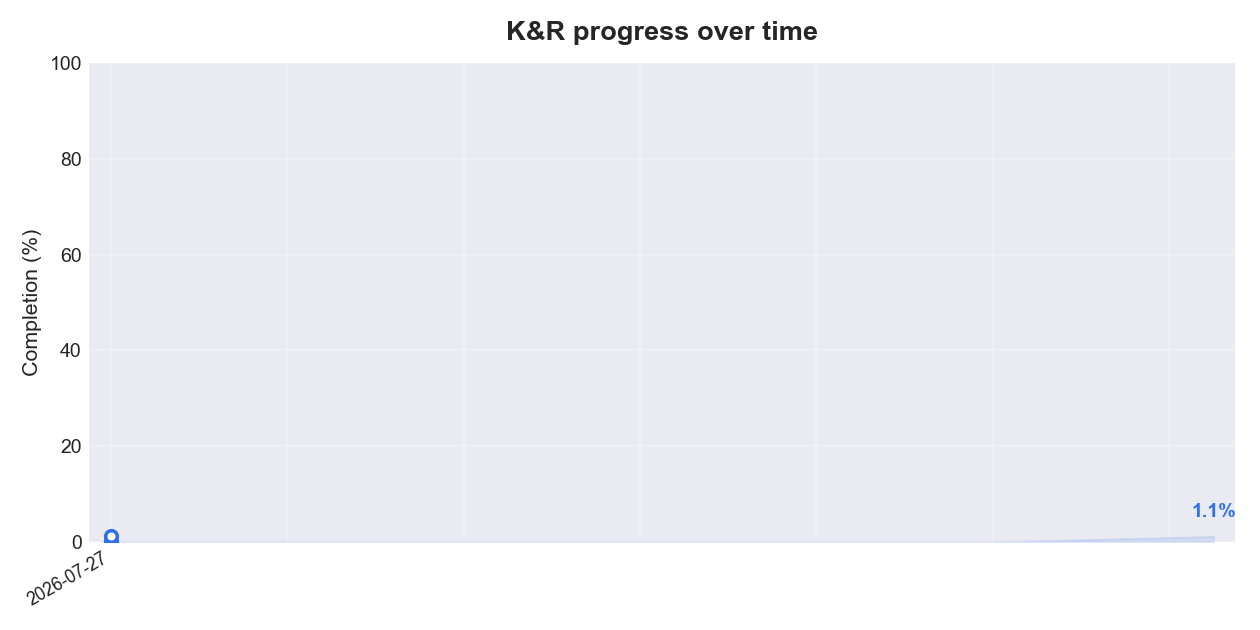
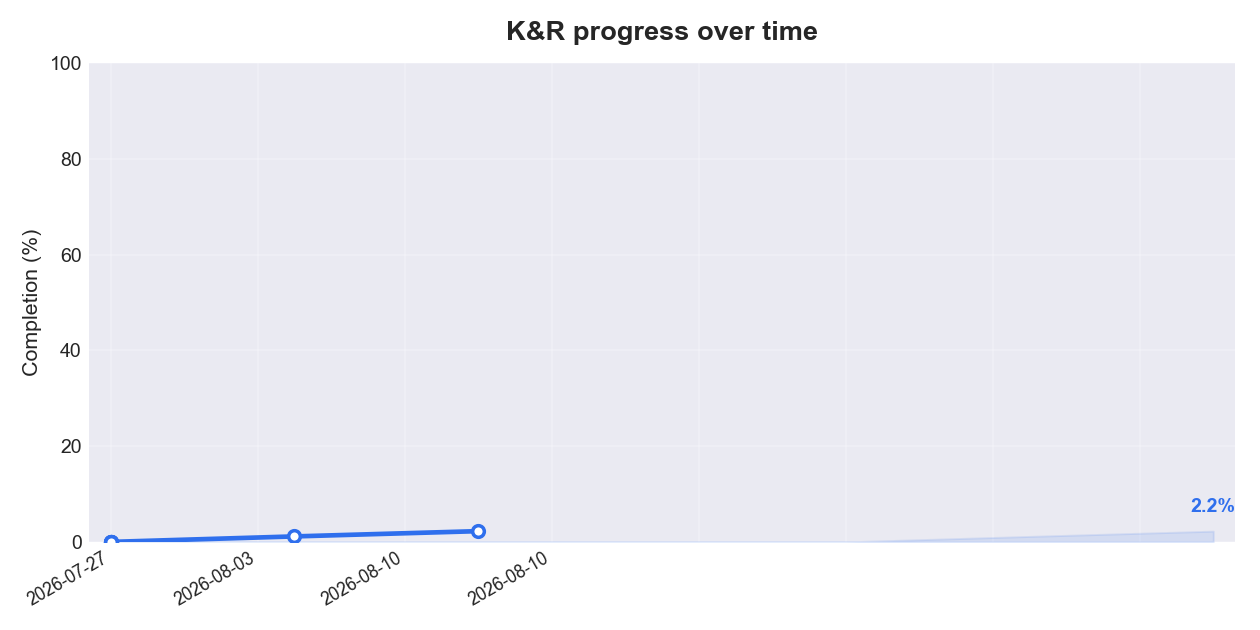
Add notes and exercises for 1.2

diff --git a/ch01-tutorial-intro/1.2-variables-arithmetic/notes-1.2.md b/ch01-tutorial-intro/1.2-variables-arithmetic/notes-1.2.md
@@ -1,30 +1,187 @@
-<!-- placeholder:notes -->
-<!-- This file was scaffolded but not written yet. Paste the section text and Claude will replace this whole file with real notes. -->
-
 # Notes: 1.2 Variables and Arithmetic Expressions
 
-*Status: not written yet. Paste the K&R text for this section to fill it in.*
+This section builds a program that prints a Fahrenheit to Celsius conversion table, using the
+formula `C = (5/9)(F-32)`. It's longer than "hello, world" but introduces a bunch of core
+ideas at once: comments, declarations, variables, arithmetic, loops, and formatted output.
 
-## What this section is about
-
-One or two sentences on what the section covers and why it matters.
-
-## Key ideas
-
-Explain the main points in plain language. Keep it skimmable. Use small code
-snippets where they make an idea clearer, like this:
+## The integer version
 
 ```c
-printf("hello, world\n");
+#include <stdio.h>
+
+/* print Fahrenheit-Celsius table
+   for fahr = 0, 20, ..., 300 */
+main()
+{
+    int fahr, celsius;
+    int lower, upper, step;
+
+    lower = 0;    /* lower limit of temperature scale */
+    upper = 300;  /* upper limit */
+    step = 20;    /* step size */
+
+    fahr = lower;
+    while (fahr <= upper) {
+        celsius = 5 * (fahr-32) / 9;
+        printf("%d\t%d\n", fahr, celsius);
+        fahr = fahr + step;
+    }
+}
 ```
 
-Break ideas into short paragraphs or bullet points. You do not need fixed
-headers for every section, just enough structure that it reads well.
+## Comments
 
-## Gotchas
+`/* ... */` marks a comment. The compiler ignores everything between the markers. Comments
+can go anywhere a blank, tab, or newline can go, and they're there to make the program easier
+for a human to understand.
 
-Anything easy to get wrong, surprising behavior, or a detail worth remembering.
+## Declarations
+
+In C, every variable has to be declared before it's used, usually at the top of the function
+before any executable statements. A declaration is a type followed by a list of variable names:
+
+```c
+int fahr, celsius;
+int lower, upper, step;
+```
+
+`int` means integer. `float` means floating point (numbers with a fractional part). The exact
+range of these types depends on the machine. A common case is a 16-bit int (-32768 to
+32767), though 32-bit ints are common too. `float` is typically 32 bits, with at least six
+significant digits.
+
+Other basic types:
+- `char`, a single byte character
+- `short`, short integer
+- `long`, long integer
+- `double`, double-precision floating point
+
+## Assignment and the while loop
+
+```c
+lower = 0;
+upper = 300;
+step = 20;
+```
+
+sets the starting values. Statements end with semicolons.
+
+The table is built one line at a time with a `while` loop:
+
+```c
+while (fahr <= upper) {
+    ...
+}
+```
+
+The condition in parentheses is checked first. If it's true, the body runs. Then the condition
+is checked again, and so on, until it's false, at which point the loop ends and execution moves
+past it. The body can be multiple statements in braces, or a single statement with no braces:
+
+```c
+while (i < j)
+    i = 2 * i;
+```
+
+Indent the body of the loop (one tab stop, shown as four spaces) so it's visually clear what's
+inside the loop. The compiler doesn't care about this, but readers do. Braces style is a matter
+of preference, K&R just picks one and sticks with it consistently.
+
+## Why celsius = 5 * (fahr-32) / 9, not 5/9 * (fahr-32)
+
+Integer division in C truncates, it throws away the fractional part. `5/9` as integers evaluates
+to `0`, so multiplying by that would always give 0. Multiplying by `5` first and dividing by `9`
+after avoids this.
+
+## printf and format specifiers
+
+`printf` is a general-purpose output function. Its first argument is a string with `%`
+placeholders, and each one is matched in order with the arguments that follow. `%d` means
+"print as a decimal integer."
+
+```c
+printf("%d\t%d\n", fahr, celsius);
+```
+
+prints the two integers separated by a tab. The number and type of `%` placeholders must
+match the arguments, or you get wrong (or undefined) results.
+
+`printf` is not part of the C language itself. C has no built-in input or output. `printf` is
+just a function from the standard library, defined by the ANSI standard so it behaves
+consistently across compilers. Its counterpart for reading input is `scanf` (covered in 7.4).
+
+### Field widths
+
+Adding a width number to `%d` right-justifies the output in a field of that many characters:
+
+```c
+printf("%3d %6d\n", fahr, celsius);
+```
+
+prints the first number in a field 3 characters wide and the second in a field 6 characters wide.
+
+## The floating-point version
+
+The integer version is inaccurate (0°F is really about -17.8°C, not -17), because integer
+arithmetic can't represent the fraction. Switching to `float` fixes it:
+
+```c
+#include <stdio.h>
+
+/* print Fahrenheit-Celsius table
+   for fahr = 0, 20, ..., 300; floating-point version */
+main()
+{
+    float fahr, celsius;
+    float lower, upper, step;
+
+    lower = 0;
+    upper = 300;
+    step = 20;
+
+    fahr = lower;
+    while (fahr <= upper) {
+        celsius = (5.0/9.0) * (fahr-32.0);
+        printf("%3.0f %6.1f\n", fahr, celsius);
+        fahr = fahr + step;
+    }
+}
+```
+
+Now `5.0/9.0` is a ratio of floating-point values, so it isn't truncated to zero. A decimal point
+in a constant is what marks it as floating point.
+
+### Mixed int/float arithmetic
+
+If an operator has two integer operands, you get integer arithmetic. If one operand is float and
+the other int, the int gets converted to float first. So writing `(fahr-32)` instead of
+`(fahr-32.0)` would still work correctly, since `32` gets promoted automatically. But writing
+the explicit `.0` makes the floating-point intent clear to a human reader, even though the
+compiler doesn't need it.
+
+This same automatic conversion applies to assignments and comparisons too, like
+`fahr = lower;` and `while (fahr <= upper)`, an int is converted to float as needed.
+
+### Format specifiers for floats
+
+`%3.0f` prints a float at least 3 characters wide, no decimal point, no fraction digits.
+`%6.1f` prints at least 6 characters wide, with 1 digit after the decimal point.
+
+| Specifier | Meaning |
+|---|---|
+| `%d` | decimal integer |
+| `%6d` | decimal integer, at least 6 characters wide |
+| `%f` | floating point |
+| `%6f` | floating point, at least 6 characters wide |
+| `%.2f` | floating point, 2 digits after the decimal point |
+| `%6.2f` | floating point, at least 6 wide, 2 after the decimal point |
+
+Width and precision can each be left off independently. `printf` also supports `%o` (octal),
+`%x` (hex), `%c` (character), `%s` (string), and `%%` (a literal percent sign).
 
 ## Quick recap
 
-A short wrap up of the one or two things to actually remember from this section.
+Variables must be declared with a type before use. Integer division truncates, so watch out
+for it when you want a fractional result, use floats and decimal points instead. `printf` format
+strings pair `%` specifiers with arguments in order, and you can control width and precision to
+control how numbers are printed.

diff --git a/TRACKER.md b/TRACKER.md
@@ -2,17 +2,17 @@
 
 Auto-generated by `scripts/update_tracker.py`. Do not edit by hand.
 
-_Last updated: 2026-07-27_
+_Last updated: 2026-08-10_
 
 ## Overall
 
-**1.1% complete** `[------------------------]`
+**2.2% complete** `[#-----------------------]`
 
 | Metric | Done | Total |
 | --- | --- | --- |
-| Section notes | 1 | 77 |
+| Section notes | 2 | 77 |
 | Chapter summaries | 0 | 8 |
-| Exercises solved | 0 | 2 |
+| Exercises solved | 0 | 4 |
 
 ## Progress over time
 
@@ -22,7 +22,7 @@ _Last updated: 2026-07-27_
 
 | Chapter | Notes | Summary | Exercises |
 | --- | :---: | :---: | :---: |
-| 1. A Tutorial Introduction | 1 / 10 | - | 0 / 2 |
+| 1. A Tutorial Introduction | 2 / 10 | - | 0 / 4 |
 | 2. Types, Operators and Expressions | 0 / 12 | - | 0 / 0 |
 | 3. Control Flow | 0 / 8 | - | 0 / 0 |
 | 4. Functions and Program Structure | 0 / 11 | - | 0 / 0 |
@@ -40,7 +40,7 @@ _Last updated: 2026-07-27_
 | Section | Title | Notes | Summary | Exercises |
 | :---: | --- | :---: | :---: | :---: |
 | 1.1 | Getting Started | yes | - | 0 / 2 |
-| 1.2 | Variables and Arithmetic Expressions | no | - | 0 / 0 |
+| 1.2 | Variables and Arithmetic Expressions | yes | - | 0 / 2 |
 | 1.3 | The for statement | no | - | 0 / 0 |
 | 1.4 | Symbolic Constants | - | - | 0 / 0 |
 | 1.5 | Character Input and Output | - | - | 0 / 0 |

diff --git a/ch01-tutorial-intro/1.2-variables-arithmetic/exercises/exercises-1.2.md b/ch01-tutorial-intro/1.2-variables-arithmetic/exercises/exercises-1.2.md
@@ -3,17 +3,10 @@
 These are the exercises found in the section text. Check one off when you have a
 working solution file for it in this folder.
 
-Solution files go next to this file and are named like `ex1-3a.c`, `ex1-3b.c`
+Solution files go next to this file and are named like `ex1-2a.c`, `ex1-2b.c`
 (that is `ex<chapter>-<section><letter>.c`).
 
-Total exercises: 0
+Total exercises: 2
 
-<!--
-NOTES FOR CLAUDE:
-- One checkbox line per exercise, always starting with "- [ ]".
-- Copy the real prompt wording from the pasted text. Do not shorten it so much
-  that the task becomes unclear.
-- The letter (a, b, c ...) matches the order the exercises appear in the text.
-- The tracker counts total exercises by counting these checkbox lines, and
-  counts solved exercises by counting the .c files in this folder.
--->
+- [ ] **Exercise 1-3 (a).** Modify the temperature conversion program to print a heading above the table.
+- [ ] **Exercise 1-4 (b).** Write a program to print the corresponding Celsius to Fahrenheit table.
